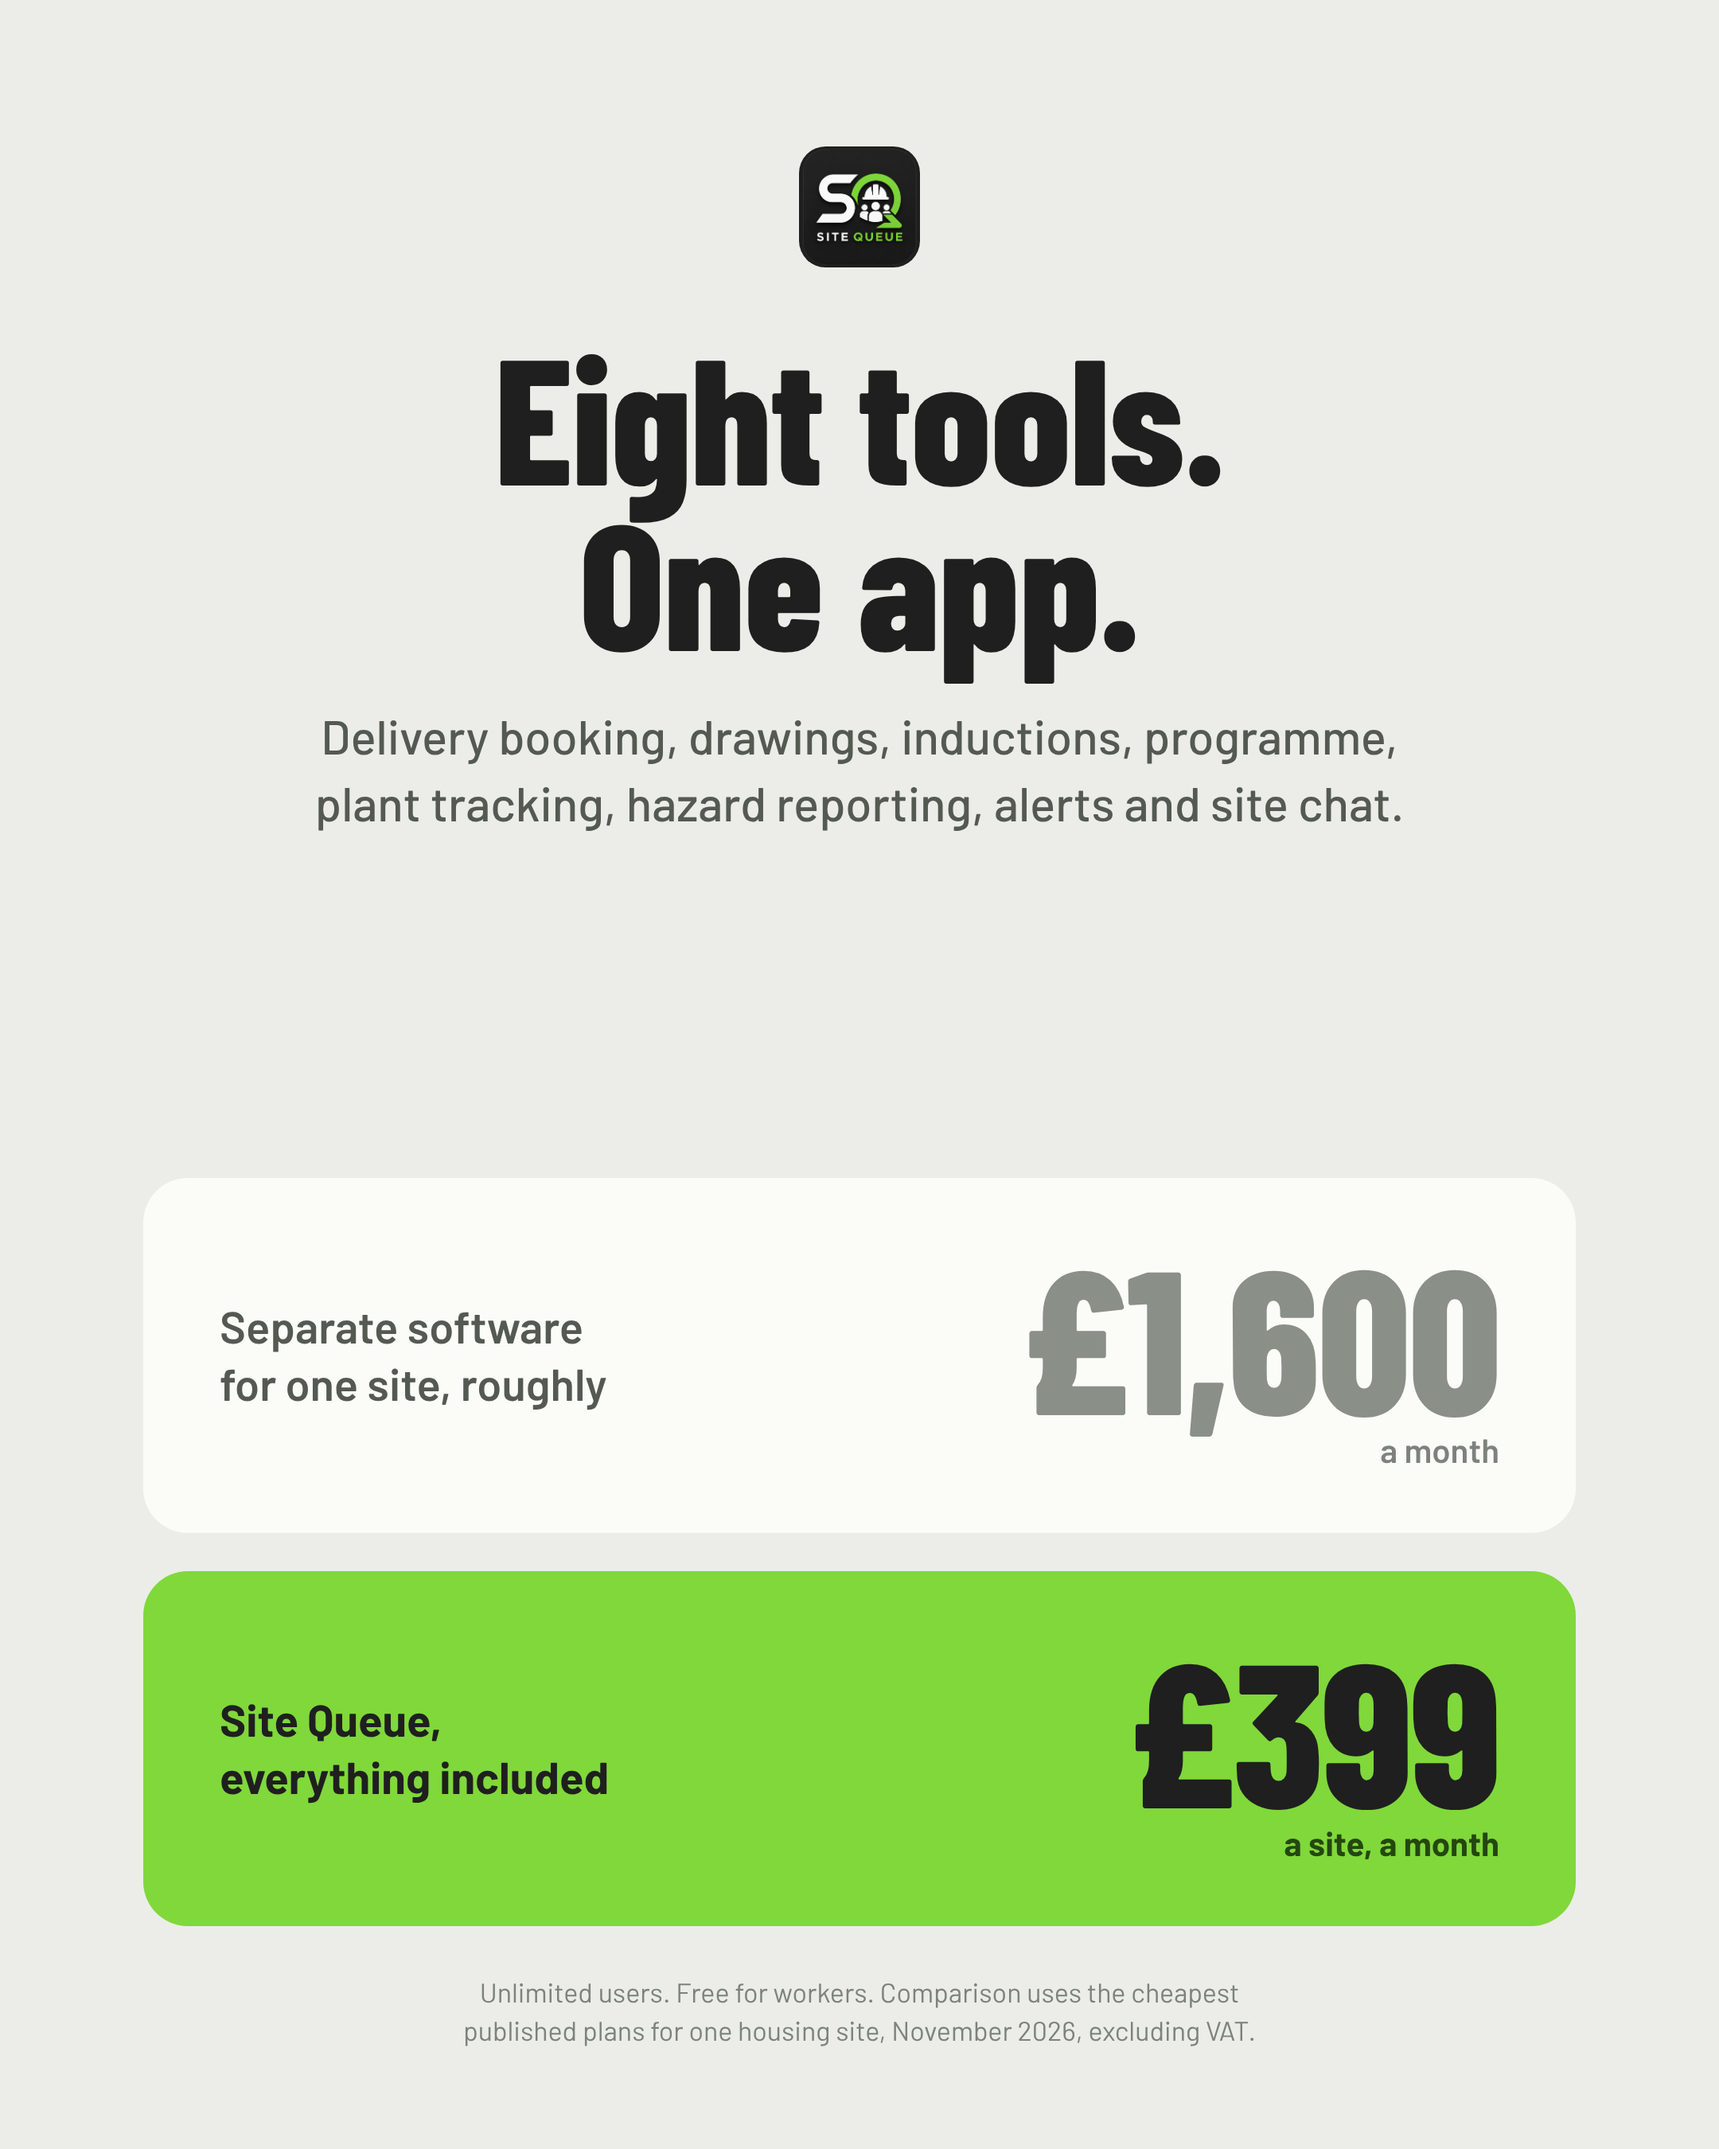
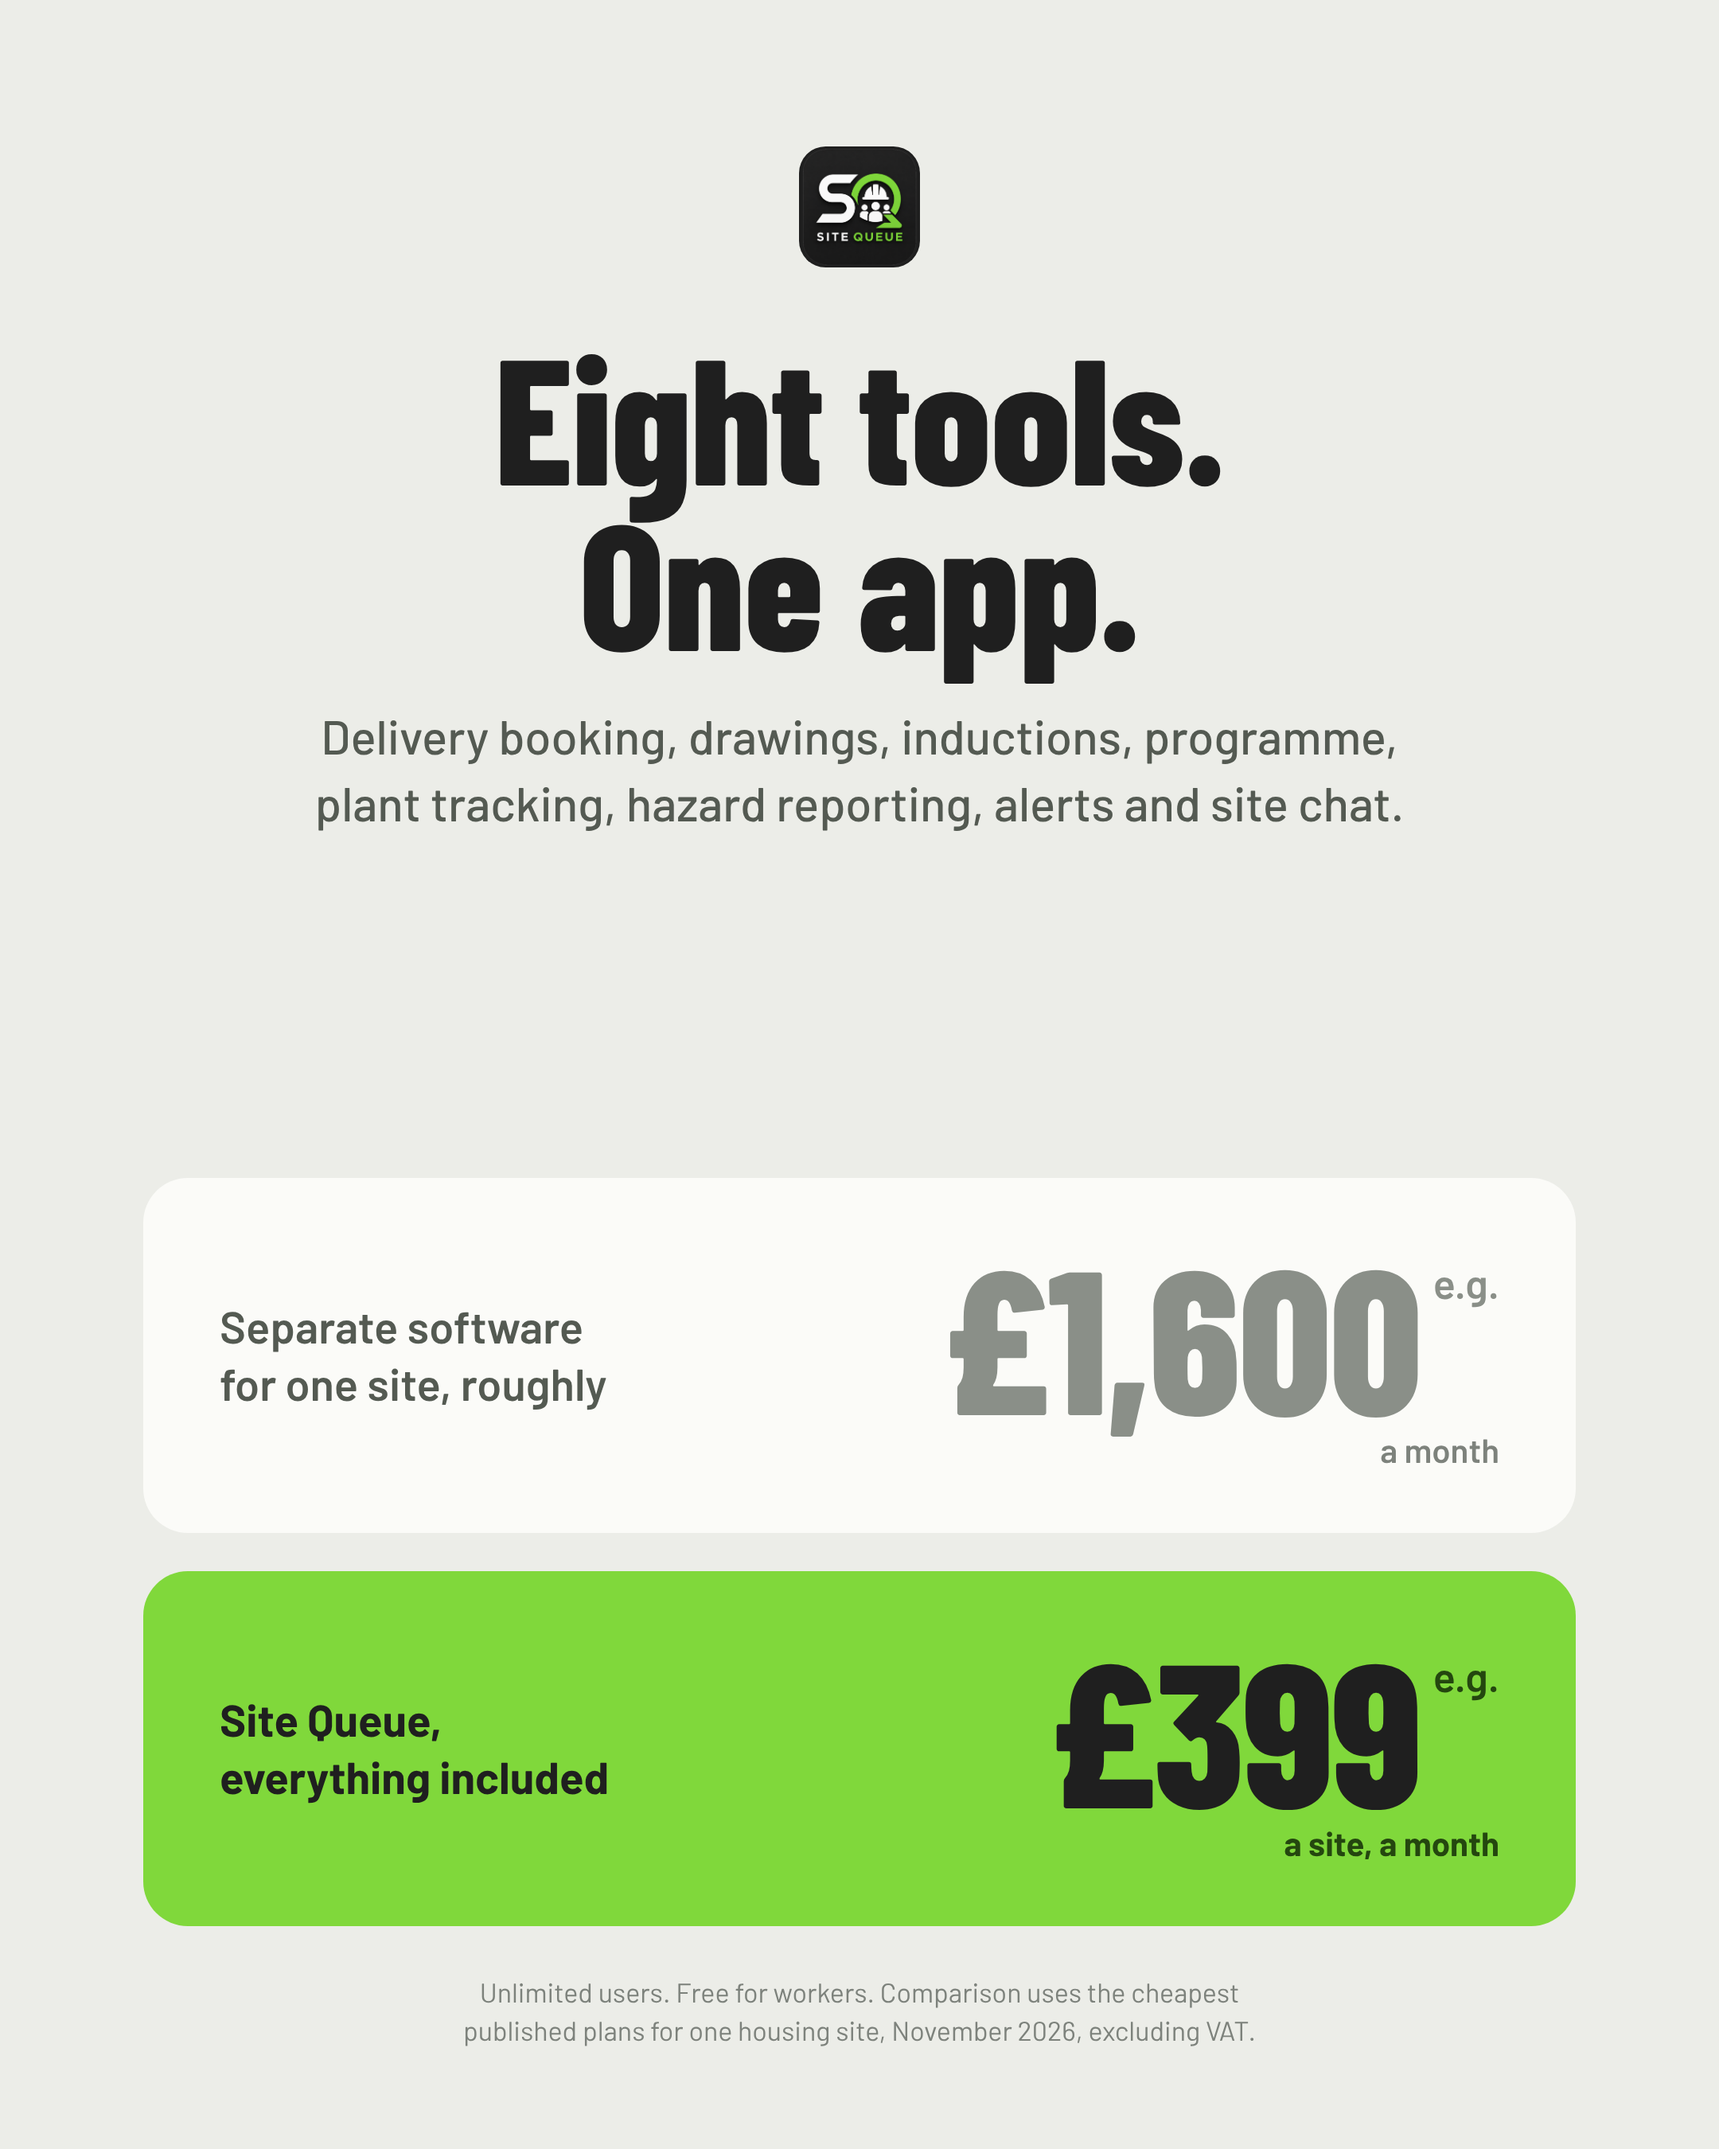
Value post: add e.g. to example prices
Claude-Session: https://claude.ai/code/session_01Rq6TRmCVHtyr6wqHRDQyWQ

Changed region(s): [[0.5583, 0.5911, 0.8685, 0.6844], [0.6204, 0.7778, 0.8685, 0.84]]

diff --git a/marketing/source/series.js b/marketing/source/series.js
@@ -49,10 +49,10 @@ P['04-value'] = { theme: 'con', html: `<body style="background:#ECEDE8;color:#1F
   <div class="abs" style="left:90px;right:90px;top:740px;display:flex;flex-direction:column;gap:24px">
     <div style="background:#FBFBF8;border-radius:28px;padding:40px 48px;display:flex;justify-content:space-between;align-items:center">
       <div style="font-size:28px;font-weight:600;color:#545A52;line-height:1.3">Separate software<br>for one site, roughly</div>
-      <div style="text-align:right"><div class="d" style="font-size:128px;color:#8A8F88">£1,600</div><div style="font-size:21px;color:#7D827C;font-weight:600">a month</div></div></div>
+      <div style="text-align:right"><div class="d" style="font-size:128px;color:#8A8F88">£1,600<span style="font-family:Barlow;font-size:26px;font-weight:600;letter-spacing:0;color:#8A8F88;vertical-align:top;margin-left:8px;position:relative;top:14px">e.g.</span></div><div style="font-size:21px;color:#7D827C;font-weight:600">a month</div></div></div>
     <div style="background:#80D83B;border-radius:28px;padding:40px 48px;display:flex;justify-content:space-between;align-items:center">
       <div style="font-size:28px;font-weight:700;line-height:1.3">Site Queue,<br>everything included</div>
-      <div style="text-align:right"><div class="d" style="font-size:128px">£399</div><div style="font-size:21px;color:#24470F;font-weight:700">a site, a month</div></div></div>
+      <div style="text-align:right"><div class="d" style="font-size:128px">£399<span style="font-family:Barlow;font-size:26px;font-weight:600;letter-spacing:0;color:#24470F;vertical-align:top;margin-left:8px;position:relative;top:14px">e.g.</span></div><div style="font-size:21px;color:#24470F;font-weight:700">a site, a month</div></div></div>
   </div>
   <div class="abs" style="left:90px;right:90px;bottom:62px;text-align:center;font-size:17px;line-height:1.45;color:#7D827C;text-wrap:balance">Unlimited users. Free for workers. Comparison uses the cheapest published plans for one housing site, November 2026, excluding VAT.</div>
   </body>` };
